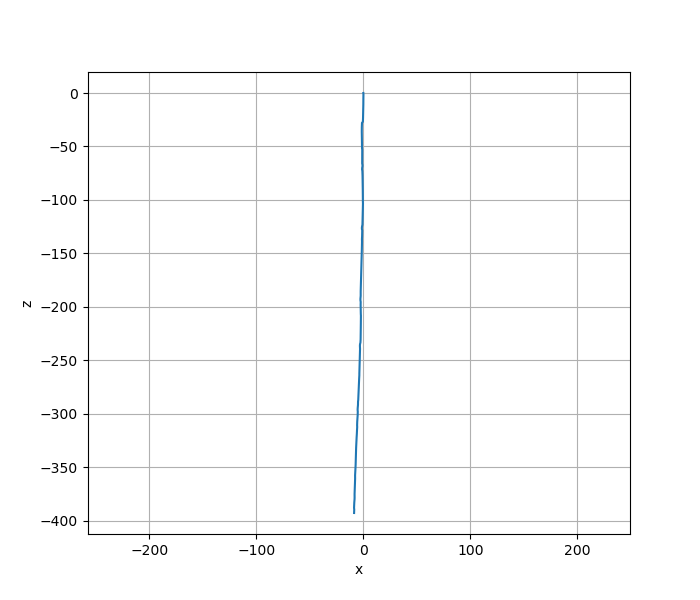
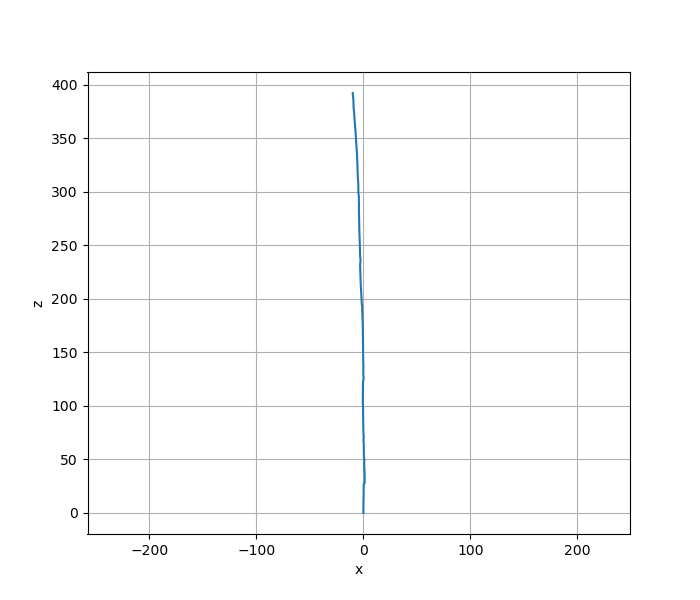
change Z axis negative to positive

diff --git a/VO/VO.py b/VO/VO.py
@@ -75,9 +75,9 @@ for i in range(file_list - 1):
     R, t = find_R_t(kp, kp_next, matches)
     scale = getAbsoluteScale(i + 1)
     t_scale = scale * t
-    residual = np.array([0,0,0,1])
-    pose_matrix = np.vstack((np.hstack((R, t_scale)), residual))
-    rotation = first_rotation @ R
+    pose_matrix = np.eye(4)
+    pose_matrix[0:3, 0:3] = R.T
+    pose_matrix[0:3, 3] = (-R.T @ t_scale).ravel()
     first_pose = first_pose @ pose_matrix
     X_Y_Z[0][i + 1] = first_pose[0][3] #x
     X_Y_Z[1][i + 1] = first_pose[1][3] #y
